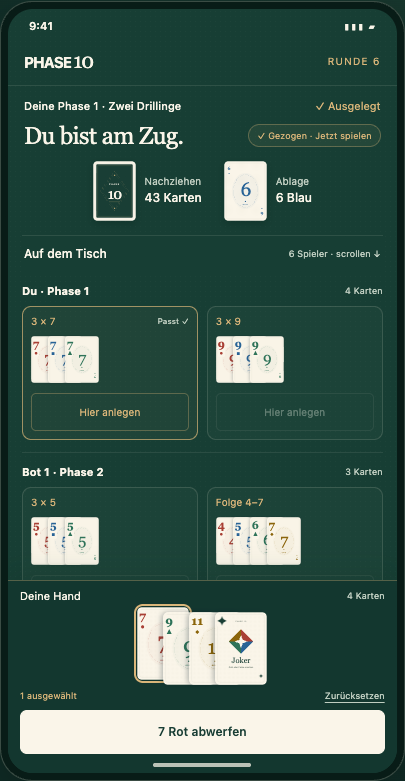
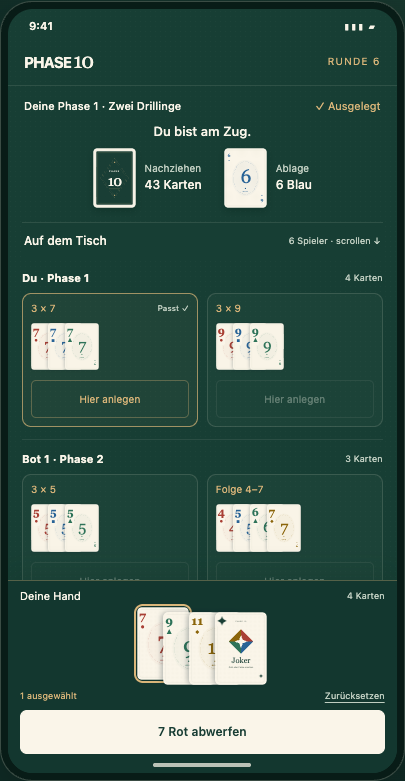
Use compact fixed playing zones with a scrolling phase table

diff --git a/src/ui/game-table.ts b/src/ui/game-table.ts
@@ -63,7 +63,7 @@ function tableMelds(view: TableView, canPlay: boolean): string {
   const { state, catalog, selected } = view;
   if (!state?.players.some(player => player.melds.length)) return '';
   const canHit = canPlay && state.players[0]!.melds.length && selected.length;
-  return `<section class="laid-phases" aria-label="Ausgelegte Phasen"><h3>Auf dem Tisch</h3>${state.players.filter(player => player.melds.length).map(player => `<div class="laid-player"><h4>${escape(player.name)} · Phase ${player.phase}</h4><div class="meld-groups">${player.melds.map((group, index) => `<div class="meld-group"><span class="meld-label">${escape(groupName(group))}</span><div class="meld-cards">${group.cards.map((id, offset) => meldCard(catalog.get(id)!, group, offset)).join('')}</div>${state.status === 'playing' && state.players[0]!.melds.length ? `<button class="game-secondary" type="button" data-hit-owner="${escape(player.id)}" data-hit-group="${index}" data-focus="hit-${escape(player.id)}-${index}"${disabled(canHit && extendMeld(group, selected, catalog))}>Hier anlegen</button>` : ''}</div>`).join('')}</div></div>`).join('')}</section>`;
+  return `<section class="laid-phases" aria-label="Ausgelegte Phasen"><h3>Auf dem Tisch</h3>${state.players.filter(player => player.melds.length).map(player => `<div class="laid-player"><h4>${escape(player.name)} · Phase ${player.phase}</h4><div class="meld-groups">${player.melds.map((group, index) => `<div class="meld-group${canHit && extendMeld(group, selected, catalog) ? ' can-hit' : ''}"><span class="meld-label">${escape(groupName(group))}</span><div class="meld-cards">${group.cards.map((id, offset) => meldCard(catalog.get(id)!, group, offset)).join('')}</div>${state.status === 'playing' && state.players[0]!.melds.length ? `<button class="game-secondary" type="button" data-hit-owner="${escape(player.id)}" data-hit-group="${index}" data-focus="hit-${escape(player.id)}-${index}"${disabled(canHit && extendMeld(group, selected, catalog))}>Hier anlegen</button>` : ''}</div>`).join('')}</div></div>`).join('')}</section>`;
 }
 
 function result(view: TableView): string {
@@ -77,6 +77,8 @@ function result(view: TableView): string {
 
 export function renderGameTable(root: HTMLElement, view: TableView, actions: TableActions): void {
   const { state, catalog, phases, selected, target, message, ordering, focusedCard } = view;
+  const tableScroll = root.querySelector<HTMLElement>('.table-scroll')?.scrollTop ?? 0;
+  const openPanels = new Set([...root.querySelectorAll<HTMLDetailsElement>('details[data-panel][open]')].map(panel => panel.dataset.panel));
   const previouslyFocused = root.contains(document.activeElement) && document.activeElement instanceof HTMLElement
     ? document.activeElement.dataset.focus ?? null : null;
   if (state === null) {
@@ -98,27 +100,29 @@ export function renderGameTable(root: HTMLElement, view: TableView, actions: Tab
     const position = focusedCard ? human.hand.indexOf(focusedCard) : -1;
     const spectator = state.tieBreak && !state.finalists?.includes(human.id);
     const title = spectator ? 'Die Stichrunde läuft.' : yourTurn ? 'Du bist am Zug.' : `${active.name} ist am Zug.`;
-    const instruction = ordering ? 'Ziehe die Karten mit dem Finger an ihren Platz.' : yourTurn
-      ? canDraw ? 'Ziehe genau eine Karte von einem der beiden Stapel.' : human.melds.length ? 'Lege passende Karten an oder wirf eine Karte ab.' : 'Wähle Karten für deine Phase oder eine Karte zum Abwerfen.'
-      : state.stage === 'draw' ? 'Zieht gleich eine Karte.' : 'Prüft die Phase und die Karten auf dem Tisch.';
+    const instruction = ordering ? 'Hand ordnen: Karten ziehen oder Pfeile nutzen.' : yourTurn
+      ? canDraw ? 'Ziehe eine Karte.' : human.melds.length ? 'Anlegen oder abwerfen.' : 'Phase auslegen oder abwerfen.'
+      : state.stage === 'draw' ? 'Zieht eine Karte.' : 'Spielt und wirft ab.';
     root.dataset.stage = state.stage;
     root.dataset.player = active.id;
     root.dataset.status = state.status;
-    root.innerHTML = `<div class="game-topline"><span class="round-label">${state.tieBreak ? 'STICHRUNDE' : 'RUNDE'} ${state.round}</span><label class="bot-setting" for="bot-difficulty">Spielstärke<select id="bot-difficulty" data-focus="bot-difficulty" data-action="difficulty">${difficultyOptions(botSetup(state))}</select></label><details class="new-game"><summary>Neue Partie</summary>${startForm(true, state.players.length - 1, botSetup(state))}</details></div>
-<div class="current-phase"><img src="./public/assets/phase-${String(human.phase).padStart(2, '0')}.svg" width="240" height="336" alt="" aria-hidden="true"><div><span class="eyebrow">DEINE PHASE ${human.phase} VON 10</span><h3>${escape(phase.title)}</h3><p>${escape(phase.hint)}</p><span class="phase-progress">${spectator ? 'Du schaust bei der Stichrunde zu.' : human.melds.length ? `✓ Ausgelegt${human.phase < 10 ? ` · Phase ${human.phase + 1} in der nächsten Runde` : ' · Letzte Phase geschafft'}` : `${requiredCount} Karten mindestens · ${human.score} Punkte`}</span></div></div>
-<div class="opponents">${state.players.slice(1).map(player => `<div class="opponent${player.id === active.id && state.status === 'playing' ? ' is-active' : ''}"><div class="opponent-cards" aria-hidden="true">${Array.from({ length: Math.min(3, player.hand.length) }, () => '<img src="./public/assets/card-back.svg" width="240" height="336" alt="">').join('')}</div><strong>${escape(player.name)} <span class="bot-badge">${player.botDifficulty === 'strong' ? 'Stark' : 'Einfach'}</span></strong><span>${cardCount(player.hand.length)}${player.skipPending ? ' · setzt aus' : ''}</span><span>Phase ${player.phase}${player.melds.length ? ' ✓' : ''}</span></div>`).join('')}</div>
+    root.innerHTML = `<div class="table-fixed-top">
+<div class="game-topline"><span class="round-label">${state.tieBreak ? 'STICHRUNDE' : 'RUNDE'} ${state.round}</span><details class="table-settings" data-panel="settings"><summary>Spielmenü</summary><div class="settings-content"><div class="phase-help"><img src="./public/assets/phase-${String(human.phase).padStart(2, '0')}.svg" width="240" height="336" alt="Phase ${human.phase}"><div><strong>${escape(phase.title)}</strong><p>${escape(phase.hint)}</p><p>${human.score} Punkte · ${requiredCount} Karten für die Phase</p></div></div><label class="bot-setting" for="bot-difficulty">Spielstärke<select id="bot-difficulty" data-focus="bot-difficulty" data-action="difficulty">${difficultyOptions(botSetup(state))}</select></label><details class="new-game"><summary>Neue Partie</summary>${startForm(true, state.players.length - 1, botSetup(state))}</details><details class="turn-history" data-panel="history"><summary>Letzte Züge</summary><ol>${state.history.map(entry => `<li>${escape(entry)}</li>`).join('')}</ol></details></div></details></div>
+<div class="current-phase"><h3>Phase ${human.phase} · ${escape(phase.title)}</h3><span class="phase-progress">${spectator ? 'Stichrunde: Du schaust zu.' : human.melds.length ? `✓ Ausgelegt${human.phase < 10 ? `<span class="phase-next"> · nächste Phase ${human.phase + 1}</span>` : '<span class="phase-next"> · letzte Phase</span>'}` : `${requiredCount} Karten · ${human.score} Punkte`}</span></div>
+${state.status === 'playing' ? `<div class="turn-heading"><h2>${escape(title)}</h2><p>${escape(instruction)}</p></div>` : ''}
+<div class="piles"><div><button class="pile-card" id="draw-stock" type="button" data-action="draw-stock" data-focus="draw-stock" aria-label="Eine Karte vom Nachziehstapel ziehen"${disabled(canDraw && !ordering && (state.stock.length || state.discard.length > 1))}><img src="./public/assets/card-back.svg" width="240" height="336" alt="Verdeckter Nachziehstapel"><span class="pile-count">${state.stock.length}</span></button><span class="pile-label">Nachziehen</span></div><div><button class="pile-card" id="draw-discard" type="button" data-action="draw-discard" data-focus="draw-discard" aria-label="Die oberste Karte vom Ablagestapel aufnehmen"${disabled(canDraw && !ordering && top && top.type !== 'skip')}>${top ? image(top) : '<span class="empty-pile">Leer</span>'}<span class="pile-count">${state.discard.length}</span></button><span class="pile-label">Ablage<strong>${top ? escape(describeCard(top)) : 'Leer'}</strong></span></div></div>
+${top?.type === 'skip' ? '<p class="pile-hint">Aussetzen kannst du nicht aufnehmen.</p>' : ''}
+</div>
+<div class="table-scroll" tabindex="0" aria-label="Spieler und ausgelegte Phasen"><div class="opponents">${state.players.slice(1).map(player => `<div class="opponent${player.id === active.id && state.status === 'playing' ? ' is-active' : ''}"><strong>${escape(player.name)} <span class="bot-badge">${player.botDifficulty === 'strong' ? 'Stark' : 'Einfach'}</span></strong><span>${cardCount(player.hand.length)}${player.skipPending ? ' · setzt aus' : ''}</span><span>Phase ${player.phase}${player.melds.length ? ' ✓' : ''}</span></div>`).join('')}</div>
 ${result(view)}
-${state.status === 'playing' ? `<div class="turn-heading"><h2>${escape(title)}</h2><p>${escape(instruction)}</p><ol class="turn-steps" aria-label="Schritte deines Zuges"><li class="${state.stage === 'draw' ? 'is-current' : 'is-complete'}"${canDraw ? ' aria-current="step"' : ''}><span>1</span>Ziehen</li><li class="${state.stage === 'discard' ? 'is-current' : ''}"${canPlay ? ' aria-current="step"' : ''}><span>2</span>Spielen &amp; Abwerfen</li></ol></div>` : ''}
-<div class="piles"><div><button class="pile-card" id="draw-stock" type="button" data-action="draw-stock" data-focus="draw-stock" aria-label="Eine Karte vom Nachziehstapel ziehen"${disabled(canDraw && !ordering && (state.stock.length || state.discard.length > 1))}><img src="./public/assets/card-back.svg" width="240" height="336" alt="Verdeckter Nachziehstapel"><span class="pile-count">${state.stock.length}</span></button><span class="pile-label">Nachziehstapel</span></div><div><button class="pile-card" id="draw-discard" type="button" data-action="draw-discard" data-focus="draw-discard" aria-label="Die oberste Karte vom Ablagestapel aufnehmen"${disabled(canDraw && !ordering && top && top.type !== 'skip')}>${top ? image(top) : '<span class="empty-pile">Leer</span>'}<span class="pile-count">${state.discard.length}</span></button><span class="pile-label">Ablagestapel</span></div></div>
-${top?.type === 'skip' ? '<p class="pile-hint">Aussetzen darf nicht vom Ablagestapel aufgenommen werden.</p>' : ''}
-${tableMelds(view, canPlay)}
-<div class="hand-heading"><h3>Deine Hand</h3><span id="hand-count">${cardCount(human.hand.length)}</span></div>
-<div class="hand-tools"><button class="game-secondary" type="button" data-action="sort-number" data-focus="sort-number"${disabled(human.hand.length)}>Nach Zahl</button><button class="game-secondary" type="button" data-action="sort-color" data-focus="sort-color"${disabled(human.hand.length)}>Nach Farbe</button><button class="game-secondary" type="button" data-action="order-mode" data-focus="order-mode" aria-pressed="${ordering}"${disabled(human.hand.length)}>${ordering ? 'Ordnen fertig' : 'Hand ordnen'}</button></div>
-${ordering ? `<p class="ordering-hint">Karte berühren, an den gewünschten Platz ziehen und loslassen. Alternativ: antippen und die Pfeile nutzen.</p>` : ''}
+${tableMelds(view, canPlay) || (state.status === 'playing' ? '<p class="empty-table">Ausgelegte Phasen erscheinen hier.</p>' : '')}</div>
+<div class="hand-panel">
+<div class="hand-heading"><div><h3>Deine Hand</h3><span id="hand-count">${cardCount(human.hand.length)}</span></div><div class="hand-tools"><details class="hand-options" data-panel="sorting"><summary>Sortieren</summary><div><button class="game-secondary" type="button" data-action="sort-number" data-focus="sort-number"${disabled(human.hand.length)}>Nach Zahl</button><button class="game-secondary" type="button" data-action="sort-color" data-focus="sort-color"${disabled(human.hand.length)}>Nach Farbe</button></div></details><button class="game-secondary hand-order-button" type="button" data-action="order-mode" data-focus="order-mode" aria-pressed="${ordering}"${disabled(human.hand.length)}>${ordering ? 'Fertig' : 'Hand ordnen'}</button></div></div>
+${ordering ? `<p class="ordering-hint">Karten ziehen oder mit den Pfeilen verschieben.</p>` : ''}
 <div class="hand-grid${ordering ? ' is-ordering' : ''}">${human.hand.map(id => `<button class="hand-card${(ordering ? focusedCard === id : selected.includes(id)) ? ' is-selected' : ''}${state.drawnCard === id && yourTurn ? ' is-drawn' : ''}" type="button" data-card="${escape(id)}" data-focus="${escape(id)}" aria-label="${escape(describeCard(catalog.get(id)!))}${ordering ? ' zum Verschieben' : ' auswählen'}" aria-pressed="${ordering ? focusedCard === id : selected.includes(id)}"${disabled(ordering || canPlay)}>${cardFace(catalog.get(id)!)}</button>`).join('')}</div>
-${ordering ? `<div class="order-controls"><button class="game-secondary" type="button" data-action="move-left" data-focus="move-left" aria-label="Gewählte Karte einen Platz nach links verschieben"${disabled(position > 0)}>← Nach links</button><span>${position >= 0 ? `Platz ${position + 1} von ${human.hand.length}` : 'Eine Karte auswählen'}</span><button class="game-secondary" type="button" data-action="move-right" data-focus="move-right" aria-label="Gewählte Karte einen Platz nach rechts verschieben"${disabled(position >= 0 && position < human.hand.length - 1)}>Nach rechts →</button></div>` : `<div class="selection-status" role="status">${selected.length ? `${selected.length} ausgewählt${matched ? ` · ${matched.map(group => escape(groupName(group))).join(' + ')} ✓` : !human.melds.length && selected.length > 1 ? ' · noch keine vollständige Phase' : ''}` : canDraw ? 'Erst ziehen, dann spielen.' : canPlay ? 'Tippe auf eine oder mehrere Karten.' : ''}</div><div class="discard-controls">${!human.melds.length ? `<button class="game-primary" id="lay-phase" type="button" data-action="lay-phase" data-focus="lay-phase"${disabled(matched)}>Phase ${human.phase} auslegen</button>` : ''}${needsTarget ? `<label class="skip-target">Wer setzt aus?<select data-action="skip-target" data-focus="skip-target" aria-label="Spieler zum Aussetzen auswählen"><option value="">Bitte wählen</option>${skipTargets.map(player => `<option value="${escape(player.id)}"${target === player.id ? ' selected' : ''}>${escape(player.name)}</option>`).join('')}</select></label>${skipTargets.length ? '' : '<p>Wähle eine andere Karte. Die anderen Spieler müssen erst wieder einen normalen Zug spielen.</p>'}` : ''}<button class="game-primary" id="discard-card" type="button" data-action="discard" data-focus="discard"${disabled(canPlay && selectedCard && (!needsTarget || skipTargets.some(player => player.id === target)))}>${selectedCard ? `${escape(describeCard(selectedCard))} abwerfen` : 'Eine Karte abwerfen'}</button>${selected.length ? '<button class="game-secondary" type="button" data-action="clear" data-focus="clear">Auswahl aufheben</button>' : ''}</div>`}
+${ordering ? `<div class="order-controls"><button class="game-secondary" type="button" data-action="move-left" data-focus="move-left" aria-label="Gewählte Karte einen Platz nach links verschieben"${disabled(position > 0)}>← Nach links</button><span>${position >= 0 ? `Platz ${position + 1} von ${human.hand.length}` : 'Eine Karte auswählen'}</span><button class="game-secondary" type="button" data-action="move-right" data-focus="move-right" aria-label="Gewählte Karte einen Platz nach rechts verschieben"${disabled(position >= 0 && position < human.hand.length - 1)}>Nach rechts →</button></div>` : `<div class="selection-status" role="status">${selected.length ? `${selected.length} ausgewählt${matched ? ` · ${matched.map(group => escape(groupName(group))).join(' + ')} ✓` : !human.melds.length && selected.length > 1 ? ' · Phase unvollständig' : ''}` : canDraw ? 'Erst eine Karte ziehen.' : canPlay ? 'Karten auswählen.' : ''}</div><div class="discard-controls">${!human.melds.length ? `<button class="game-primary" id="lay-phase" type="button" data-action="lay-phase" data-focus="lay-phase"${disabled(matched)}>Phase ${human.phase} legen</button>` : ''}${needsTarget ? `<label class="skip-target">Wer setzt aus?<select data-action="skip-target" data-focus="skip-target" aria-label="Spieler zum Aussetzen auswählen"><option value="">Bitte wählen</option>${skipTargets.map(player => `<option value="${escape(player.id)}"${target === player.id ? ' selected' : ''}>${escape(player.name)}</option>`).join('')}</select></label>${skipTargets.length ? '' : '<p>Wähle eine andere Karte. Die anderen Spieler müssen erst wieder einen normalen Zug spielen.</p>'}` : ''}<button class="game-primary" id="discard-card" type="button" data-action="discard" data-focus="discard"${disabled(canPlay && selectedCard && (!needsTarget || skipTargets.some(player => player.id === target)))}>${selectedCard ? `${escape(describeCard(selectedCard))} abwerfen` : 'Eine Karte abwerfen'}</button>${selected.length ? '<button class="game-secondary" type="button" data-action="clear" data-focus="clear" aria-label="Auswahl aufheben">✕</button>' : ''}</div>`}
 ${message ? `<p class="game-message" role="alert">${escape(message)}</p>` : ''}
-<details class="turn-history"><summary>Letzte Züge</summary><ol>${state.history.map(entry => `<li>${escape(entry)}</li>`).join('')}</ol></details>`;
+</div>`;
   }
 
   root.querySelector<HTMLFormElement>('.start-form')?.addEventListener('submit', event => {
@@ -142,6 +146,9 @@ ${message ? `<p class="game-message" role="alert">${escape(message)}</p>` : ''}
   root.querySelector<HTMLSelectElement>('[data-action="skip-target"]')?.addEventListener('change', event => actions.target((event.currentTarget as HTMLSelectElement).value));
   root.querySelectorAll<HTMLButtonElement>('[data-hit-owner]').forEach(button => button.addEventListener('click', () => actions.hit(button.dataset.hitOwner!, Number(button.dataset.hitGroup))));
   root.querySelector<HTMLElement>('.hand-grid')?.style.setProperty('--hand-count', String(Math.max(1, state?.players[0]?.hand.length ?? 1)));
+  const scroll = root.querySelector<HTMLElement>('.table-scroll');
+  if (scroll) scroll.scrollTop = tableScroll;
+  root.querySelectorAll<HTMLDetailsElement>('details[data-panel]').forEach(panel => { panel.open = openPanels.has(panel.dataset.panel); });
   wireHand(root, ordering, actions);
   if (previouslyFocused) {
     const element = [...root.querySelectorAll<HTMLElement>('[data-focus]')].find(node => node.dataset.focus === previouslyFocused);

diff --git a/src/ui/game-table.css b/src/ui/game-table.css
@@ -172,3 +172,138 @@
 .install-guide ol { padding-left: 20px; margin: 8px 0; }
 .install-guide li { margin-bottom: 8px; padding-left: 4px; }
 @media (max-width: 700px) { .bot-setting { order: 3; width: 100%; } }
+
+/* Fixed playing zones: only the table in the middle scrolls. */
+.brand { display:flex; flex-direction:column; gap:3px; }
+.brand .app-version { margin:0; font-size:10px; line-height:1.3; }
+body.is-playing { height:100vh; height:100dvh; display:flex; flex-direction:column; overflow:hidden; }
+body.is-playing .site-header { flex:none; width:100%; max-width:960px; min-height:48px; height:48px; padding:4px 12px; gap:12px; flex-wrap:nowrap; }
+body.is-playing .wordmark { font-size:14px; }
+body.is-playing .wordmark span { font-size:20px; }
+body.is-playing .wordmark i { width:4px; height:4px; margin-top:5px; }
+body.is-playing .brand { gap:1px; }
+body.is-playing .brand .app-version { font-size:9px; }
+body.is-playing nav { gap:14px; }
+body.is-playing nav a { font-size:11px; }
+body.is-playing main { flex:1; min-height:0; width:100%; max-width:960px; padding:0; }
+body.is-playing main > section:not(#game), body.is-playing footer, body.is-playing .game-section > .section-heading { display:none; }
+body.is-reference #game { display:none; }
+body.is-playing #game { height:100%; min-height:0; padding:0; display:flex; flex-direction:column; }
+body.is-playing .storage-status { display:none; }
+body.is-playing .storage-status.storage-error { display:block; flex:none; margin:0; padding:4px 12px; font-size:11px; }
+body.is-playing .app-tools { position:relative; flex:none; gap:6px; margin:0; padding:3px 12px; }
+body.is-playing .offline-status { flex:1; font-size:10px; line-height:1.5; }
+body.is-playing .install-guide { font-size:11px; }
+body.is-playing .install-guide summary { min-height:24px; padding:3px 0; font-size:10px; }
+body.is-playing .install-guide[open] { position:absolute; bottom:100%; right:12px; left:12px; z-index:30; max-height:60vh; overflow:auto; padding:12px; border:1px solid #d9b57970; border-radius:10px; background:var(--felt); box-shadow:0 8px 28px #0005; }
+.game-table[data-status] { position:relative; flex:1; min-height:0; padding:0; border:0; border-radius:0; display:flex; flex-direction:column; background:transparent; }
+.table-fixed-top { flex:none; padding:0 12px 10px; border-bottom:1px solid #faf5e91a; }
+.game-table[data-status] .game-topline { align-items:center; margin:0; min-height:34px; gap:12px; }
+.table-settings { position:static; font-size:11px; }
+.table-settings > summary { min-height:34px; display:flex; align-items:center; cursor:pointer; padding:4px 0 4px 12px; color:#cfd8ca; list-style:none; }
+.table-settings > summary::-webkit-details-marker, .hand-options > summary::-webkit-details-marker { display:none; }
+.settings-content { position:absolute; top:34px; right:12px; left:12px; z-index:20; max-height:calc(100vh - 100px); max-height:calc(100dvh - 100px); overflow:auto; padding:18px; border:1px solid #d9b57970; border-radius:12px; background:var(--felt); box-shadow:0 12px 32px #0005; }
+.phase-help { display:flex; align-items:center; gap:14px; margin-bottom:18px; }
+.phase-help img { width:56px; height:auto; flex:none; }
+.phase-help p { font-size:12px; line-height:1.6; color:#cfd8ca; margin:8px 0 0; }
+.settings-content .new-game { text-align:left; }
+.settings-content .new-game .start-form { justify-content:start; }
+.settings-content .turn-history { margin-top:10px; }
+.game-table[data-status] .current-phase { display:block; padding:3px 0 8px; margin:0; border:0; background:none; border-radius:0; }
+.game-table[data-status] .current-phase h3 { margin:0; font:500 12px/1.4 -apple-system,BlinkMacSystemFont,"Segoe UI",sans-serif; letter-spacing:0; }
+.game-table[data-status] .phase-progress { margin-top:3px; font-size:10px; line-height:1.4; }
+.game-table[data-status] .turn-heading { padding:0 0 8px; }
+.game-table[data-status] .turn-heading h2 { margin:0; font:500 14px/1.4 -apple-system,BlinkMacSystemFont,"Segoe UI",sans-serif; letter-spacing:0; }
+.game-table[data-status] .turn-heading p { margin:2px 0 0; font-size:10px; line-height:1.4; }
+.game-table[data-status] .piles { gap:28px; }
+.game-table[data-status] .piles > div { width:auto; display:flex; align-items:center; gap:9px; }
+.game-table[data-status] .pile-card { flex:none; width:44px; border-radius:5px; }
+.game-table[data-status] .pile-count { right:-4px; top:-4px; min-width:19px; height:19px; font-size:9px; }
+.game-table[data-status] .pile-label { margin:0; font-size:10px; text-align:left; }
+.game-table[data-status] .pile-label strong { display:block; margin-top:3px; color:var(--paper); font-size:11px; font-weight:500; }
+.game-table[data-status] .pile-hint { margin:8px 0 0; font-size:10px; }
+.table-scroll { flex:1; min-height:0; overflow-y:auto; overflow-x:hidden; overscroll-behavior:contain; padding:0 12px 12px; scrollbar-width:thin; scrollbar-color:#d9b57970 transparent; }
+.game-table[data-status] .opponents { flex-wrap:nowrap; justify-content:start; gap:8px; overflow-x:auto; padding:8px 0; }
+.game-table[data-status] .opponent { flex:none; min-width:86px; padding:7px 8px; gap:4px; align-items:start; border:1px solid #faf5e924; }
+.game-table[data-status] .opponent.is-active { border-color:#d9b57990; }
+.game-table[data-status] .opponent-cards { display:none; }
+.game-table[data-status] .opponent strong { font-size:11px; }
+.game-table[data-status] .opponent > span { font-size:10px; }
+.game-table[data-status] .bot-badge { display:none; }
+.game-table[data-status] .laid-phases { margin:8px 0 0; padding-top:10px; }
+.game-table[data-status] .laid-phases > h3 { font-size:12px; margin-bottom:12px; }
+.game-table[data-status] .laid-player { margin:12px 0; }
+.game-table[data-status] .laid-player h4 { font-size:11px; margin-bottom:8px; }
+.game-table[data-status] .meld-groups { display:grid; grid-template-columns:repeat(2,minmax(0,1fr)); gap:9px; }
+.game-table[data-status] .meld-group { padding:8px; }
+.game-table[data-status] .meld-group:only-child { grid-column:1 / -1; }
+.game-table[data-status] .meld-label { font-size:11px; margin-bottom:8px; }
+.game-table[data-status] .meld-cards { --meld-card-width:36px; }
+.game-table[data-status] .meld-group .game-secondary { width:100%; margin-top:6px; min-height:44px; padding:8px 4px; font-size:11px; }
+.empty-table { margin:24px 0; text-align:center; color:#cfd8ca; font-size:12px; line-height:1.6; }
+.hand-panel { position:relative; flex:none; padding:5px 12px 8px; border-top:1px solid #d9b57955; background:#13372f; box-shadow:0 -6px 20px #09291b25; z-index:5; }
+.game-table[data-status] .hand-heading { margin:0; align-items:center; gap:8px; }
+.game-table[data-status] .hand-heading > div:first-child { display:flex; align-items:baseline; gap:7px; min-width:0; }
+.game-table[data-status] .hand-heading h3 { font-size:11px; white-space:nowrap; }
+.game-table[data-status] #hand-count { color:#cfd8ca; font-size:10px; white-space:nowrap; }
+.game-table[data-status] .hand-tools { gap:8px; margin:0; flex-wrap:nowrap; }
+.hand-options { position:relative; font-size:11px; }
+.hand-options > summary { min-height:32px; display:flex; align-items:center; cursor:pointer; color:#cfd8ca; list-style:none; }
+.hand-options > div { position:absolute; bottom:100%; right:0; width:145px; padding:8px; border:1px solid #d9b57970; border-radius:9px; background:var(--felt); box-shadow:0 8px 20px #0005; }
+.hand-options button { width:100%; margin-bottom:4px; }
+.game-table[data-status] .hand-order-button { min-height:32px; padding:4px 7px; font-size:10px; border-color:transparent; }
+.game-table[data-status] .hand-order-button[aria-pressed="true"] { border-color:var(--gold); }
+.game-table[data-status] .hand-grid { max-width:calc((var(--hand-count) + 1) * 26px); padding:8px 0 3px; }
+.game-table[data-status] .hand-card { border-radius:5px; }
+.game-table[data-status] .hand-card.is-selected { transform:translateY(-5px); outline-width:2px; outline-offset:1px; }
+.game-table[data-status] .hand-card .hand-corner { top:3px; left:2px; font-size:12px; }
+.game-table[data-status] .hand-card .hand-corner small { font-size:7px; }
+.game-table[data-status] .selection-status { min-height:16px; margin:0; font-size:10px; line-height:1.5; text-align:left; }
+.game-table[data-status] .discard-controls { gap:8px; padding-top:4px; }
+.game-table[data-status] .discard-controls .game-primary { width:auto; flex:1; min-width:0; min-height:44px; padding:6px 8px; font-size:11px; }
+.game-table[data-status] .discard-controls [data-action="clear"] { flex:none; min-height:44px; width:44px; padding:4px; }
+.game-table[data-status] .skip-target { width:100%; font-size:11px; }
+.game-table[data-status] .skip-target select { flex:1; min-width:0; }
+.game-table[data-status] .ordering-hint { margin:0; font-size:10px; line-height:1.4; }
+.game-table[data-status] .order-controls { margin-top:3px; gap:8px; flex-wrap:nowrap; }
+.game-table[data-status] .order-controls > span { width:auto; order:0; white-space:nowrap; font-size:10px; }
+.game-table[data-status] .order-controls button { min-height:44px; padding:6px 8px; font-size:10px; }
+.game-table[data-status] .game-message { position:absolute; bottom:100%; left:0; right:0; margin:0; padding:8px 12px; max-height:40vh; overflow:auto; border-top:1px solid #d9b57970; background:#13372f; font-size:12px; line-height:1.5; }
+.game-table[data-status="round-over"] .hand-panel, .game-table[data-status="finished"] .hand-panel { display:none; }
+.game-table[data-status] .round-result { margin:12px 0; padding:18px 12px; }
+@media (max-height:500px) {
+  body.is-playing .site-header { min-height:40px; height:40px; }
+  .game-table[data-status] .current-phase { display:flex; gap:10px; padding-block:0; }
+  .game-table[data-status] .phase-progress { margin:0; }
+  .game-table[data-status] .pile-card { width:34px; }
+  .game-table[data-status] .turn-heading { padding-bottom:4px; }
+  .game-table[data-status] .turn-heading p { display:none; }
+  .table-fixed-top { padding-bottom:6px; }
+  .game-table[data-status] .hand-grid { max-width:calc((var(--hand-count) + 1) * 22px); padding-top:6px; }
+}
+@media (max-height:500px) and (min-width:600px) {
+  .game-table[data-status] { display:grid; grid-template-columns:minmax(0,1fr) minmax(280px,.85fr); grid-template-rows:auto minmax(0,1fr); }
+  .table-fixed-top { grid-column:1; grid-row:1; }
+  .table-scroll { grid-column:1; grid-row:2; }
+  .hand-panel { grid-column:2; grid-row:1 / -1; display:flex; flex-direction:column; justify-content:center; border-top:0; border-left:1px solid #d9b57955; }
+  .game-table[data-status="round-over"], .game-table[data-status="finished"] { grid-template-columns:minmax(0,1fr); }
+  .game-table[data-status] .hand-grid { margin-block:4px; }
+}
+.game-table[data-status] .meld-group.can-hit { border-color:#d9b579b0; background:#d9b5790c; }
+.game-table[data-status] .meld-group.can-hit .game-secondary { border-color:#d9b57990; color:var(--gold); }
+@media (max-height:680px) and (max-width:599px) {
+  .game-table[data-status] .game-topline, .table-settings > summary { min-height:28px; }
+  .settings-content { top:28px; }
+  .game-table[data-status] .current-phase { display:flex; align-items:baseline; justify-content:space-between; gap:8px; padding-block:2px 6px; }
+  .game-table[data-status] .current-phase h3 { min-width:0; font-size:11px; }
+  .game-table[data-status] .phase-progress { flex:none; margin:0; font-size:9px; }
+  .phase-next { display:none; }
+  .game-table[data-status] .turn-heading { padding-bottom:6px; }
+  .game-table[data-status] .turn-heading h2 { font-size:13px; }
+  .game-table[data-status] .turn-heading p { display:none; }
+  .game-table[data-status] .pile-card { width:38px; }
+  .table-fixed-top { padding-bottom:8px; }
+  .game-table[data-status] .hand-grid { max-width:calc((var(--hand-count) + 1) * 24px); }
+  .game-table[data-status] .hand-order-button, .hand-options > summary { min-height:28px; }
+  .hand-panel { padding-top:4px; padding-bottom:6px; }
+}

diff --git a/src/main.ts b/src/main.ts
@@ -28,6 +28,7 @@ async function start(): Promise<void> {
   let saveError: string | null = null;
   let selected: string[] = [];
   let ordering = false;
+  let showReference = Boolean(window.location.hash && window.location.hash !== '#game');
   let dragging = false;
   let focusedCard: string | null = null;
   let target: string | null = null;
@@ -63,7 +64,7 @@ async function start(): Promise<void> {
   }
 
   const actions: TableActions = {
-    start: (computers, difficulty) => attempt(() => { ordering = false; focusedCard = null; update(createGame(catalog, computers, Math.random, difficulty)); }),
+    start: (computers, difficulty) => attempt(() => { ordering = false; focusedCard = null; showReference = false; window.location.hash = 'game'; update(createGame(catalog, computers, Math.random, difficulty)); }),
     difficulty: level => attempt(() => {
       if (state) { update(setBotDifficulty(state, catalog, level), true); announcement!.textContent = 'Die Spielstärke der Computer wurde geändert.'; }
     }),
@@ -101,6 +102,8 @@ async function start(): Promise<void> {
   };
 
   function render(): void {
+    document.body.classList.toggle('is-playing', state !== null && !showReference);
+    document.body.classList.toggle('is-reference', state !== null && showReference);
     renderGameTable(root!, { state, catalog, phases, selected, target, message, ordering, focusedCard }, actions);
     storageStatus!.textContent = saveError ?? (state ? 'Auf diesem Gerät gespeichert.' : 'Dein Fortschritt wird auf diesem Gerät gespeichert.');
     storageStatus!.classList.toggle('storage-error', saveError !== null);
@@ -116,6 +119,31 @@ async function start(): Promise<void> {
       }), 650);
     }
   }
+
+  document.querySelectorAll<HTMLAnchorElement>('.site-header a[href^="#"]').forEach(link => {
+    link.addEventListener('click', () => {
+      showReference = link.getAttribute('href') !== '#game';
+      render();
+    });
+  });
+  window.addEventListener('hashchange', () => {
+    showReference = Boolean(window.location.hash && window.location.hash !== '#game');
+    render();
+  });
+
+  document.addEventListener('click', event => {
+    if (!(event.target instanceof Node)) return;
+    root!.querySelectorAll<HTMLDetailsElement>('details[data-panel][open]').forEach(panel => {
+      if (!panel.contains(event.target as Node)) panel.open = false;
+    });
+  });
+  document.addEventListener('keydown', event => {
+    if (event.key !== 'Escape') return;
+    root!.querySelectorAll<HTMLDetailsElement>('details[data-panel][open]').forEach(panel => {
+      panel.open = false;
+      panel.querySelector<HTMLElement>('summary')?.focus({ preventScroll: true });
+    });
+  });
 
   document.addEventListener('visibilitychange', () => {
     if (document.hidden) { if (timer !== null) clearTimeout(timer); } else render();

diff --git a/index.html b/index.html
@@ -21,12 +21,12 @@
 <body>
   <a class="skip-link" href="#game">Zum Inhalt</a>
   <header class="site-header">
-    <a class="wordmark" href="#" aria-label="Phase10, nach oben">PHASE<span>10</span><i aria-hidden="true"></i></a>
+    <div class="brand"><a class="wordmark" href="#game" aria-label="Phase10, zum Spiel">PHASE<span>10</span><i aria-hidden="true"></i></a><span class="app-version" id="app-version">Version 1.0.0.5</span></div>
     <nav aria-label="Seitennavigation"><a href="#game">Spielen</a><a href="#overview">Phasen</a><a href="#deck">Spielkarten</a></nav>
   </header>
   <main>
     <section class="game-section" id="game" aria-labelledby="game-title">
-      <div class="section-heading"><div><p class="eyebrow">DEIN SPIELTISCH</p><h1 id="game-title">Dein Spiel. Dein Zug.</h1><p class="app-version" id="app-version">Version 1.0.0.5</p></div></div>
+      <div class="section-heading"><div><p class="eyebrow">DEIN SPIELTISCH</p><h1 id="game-title">Dein Spiel. Dein Zug.</h1></div></div>
       <div class="game-table" id="game-root"><p>Der Spieltisch wird geladen.</p></div>
       <p class="storage-status" id="storage-status" role="status"></p>
       <div class="app-tools">

diff --git a/docs/mockups/mockups.css b/docs/mockups/mockups.css
@@ -120,3 +120,7 @@ footer { margin-top:38px; padding-top:24px; border-top:1px solid #faf5e920; colo
 @media(max-width:1050px) { .board { padding:36px 20px; } .concepts { gap:16px; } .concept-heading { align-items:start; flex-direction:column; } .concept-heading h2 { font-size:22px; } .concept-copy { min-height:86px; } .phone { height:760px; } .pile { gap:6px; } .piles { gap:12px; } .hand .corner { font-size:15px; } }
 @media(max-width:790px) { .board { max-width:460px; } h1 { font-size:40px; } .concepts { grid-template-columns:1fr; gap:36px; } .concept-heading { flex-direction:row; align-items:center; } .concept-copy { min-height:0; } .phone { height:780px; } }
 @media(prefers-reduced-motion:reduce) { * { transition:none!important; } }
+
+.phone.a .turn-line { justify-content:center; padding-bottom:8px; }
+.phone.a .turn-line h3 { font:500 13px/1.4 -apple-system,BlinkMacSystemFont,"Segoe UI",sans-serif; letter-spacing:0; }
+.phone.a .turn-chip { display:none; }

diff --git a/README.md b/README.md
@@ -8,6 +8,7 @@ Umgesetzt:
 - Spielstände automatisch lokal speichern und später fortsetzen.
 - Ohne Anmeldung, Werbung oder Tracking.
 - Zehn Phasen, Karten anlegen, Hand ordnen und zwei Bot-Stärken.
+- Kompakter Spieltisch: Stapel und Hand bleiben sichtbar; ausgelegte Phasen scrollen dazwischen.
 
 Technik: TypeScript und HTML/CSS, installierbare PWA. WLAN-Mehrspieler folgt.
 
